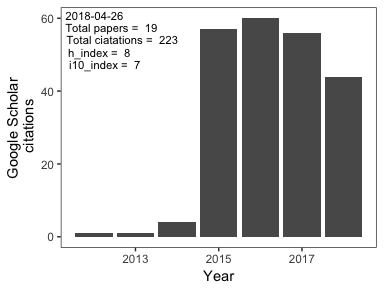
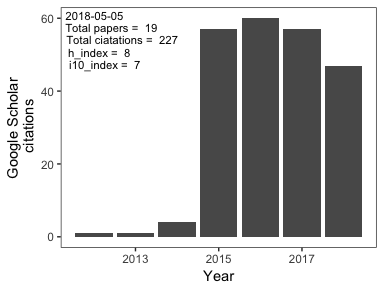
update cv

diff --git a/docs/README.md b/docs/README.md
@@ -14,7 +14,7 @@ Flexible and engaging ecologist within interests in studying how pathogen commun
 Transferable Skills
 -------------------
 
--   Strong communication skills: 19 publications in peer-reviewed journals; four presentations at international conferences
+-   Strong communication skills: 20 publications in peer-reviewed journals; four presentations at international conferences
 -   Broad field experience: supervised teams of field researchers in both terrestrial and marine habitats
 -   Extensive experience using script-based programming: proficient with frequentist and probabilistic statistical analyses; maintain two `R` packages for community ecology and landscape genetics research
 -   Aptitude for leadership: trained four postgraduate students in bioinformatics and statistical techniques
@@ -75,6 +75,8 @@ Full Publication List
 
 **2018**
 
+**Clark, NJ** and Soares Magalhães, RJ. Airborne geographical dispersal of Q Fever from livestock holdings to human communities: a systematic review and critical appraisal of evidence. *BMC Infectious Diseases* (accepted 05/05/18)
+
 **Clark, NJ**, Wells, K, and Lindberg, O. Unravelling changing interspecific interactions across environmental gradients using Markov random fields. *Ecology* (accepted 02/03/18)
 
 **Clark, NJ**. Phylogenetic uniqueness, not latitude, explains the diversity of avian blood parasite communities worldwide. *Global Ecology and Biogeography* DOI: doi: 10.1111/geb.12741. [PDF](http://nicholasjclark.weebly.com/uploads/4/4/9/4/44946407/clark_geb_2018.pdf)
@@ -126,8 +128,6 @@ Olsson-Pons, S, **Clark, NJ**, Ishtiaq, F and Clegg, SM. (2015) Differences in h
 Publications in Review
 ----------------------
 
-**Clark, NJ** and Soares Magalhães, RJ. Airborne geographical dispersal of Q Fever from livestock holdings to human communities: a systematic review and critical appraisal of evidence. *BMC Infectious Diseases* (1st submission 18/02/18)
-
 Wells, K, Gibson, D, and **Clark, NJ**. Global patterns in helminth host specificity: phylogenetic and functional diversity of regional host species pools matter. *Ecography* (1st submission 25/01/18)
 
 Lawrence, AL, Webb, CE, **Clark, NJ**, Halajian, A, Mihalca, A, Miret, J, D'Amico, G, Brown, G, Kumsa, B, Modry, D, and Šlapeta, J. Out-of-Africa origins and global climatic distribution of the common cat flea, Ctenocephalides felis: the hitchhiker’s guide to world domination. *Molecular Phylogenetics and Evolution* (1st submission 26/11/17)
@@ -157,6 +157,7 @@ Service and Discipline Involvement
 -   *Parasitology*
 -   *Malaria Journal*
 -   *Parasites & Vectors*
+-   *Evolutionary Applications*
 
 Funding Support
 ---------------
@@ -326,7 +327,7 @@ Relative to Opportunity
 
 I completed my undergraduate degree (Bachelor of Science; GPA 4.0) in 2009 and completed a Graduate Diploma by Research Methods in 2011 (High Distinction average). I began my PhD in February 2012 and finished in April 2016, delivering a thesis with six published chapters and two published appendices. My PhD work provided new insights into mechanisms driving the distributions of blood parasites in wild birds. I also gained a broad understanding of coexistence theory and its applications to community ecology, for instance by providing evidence that interspecific parasite interactions can influence infection rates.
 
-Following my PhD I have devoted much of my postdoctoral work to teaching and mentoring postgraduate research students. This has provided me with a set of leadership and organizational skills that I believe is unique among my peers. It also taught me to be proficient with the time that I do have available for research. Since winding down teaching in July last year, I have published seven papers and submitted another three, bringing my total to 19 publications. The quality and significance of this work is reflected by my exemplary publication record in some of the top journals in Ecology and Biogeography. My research has also garnered international recognition. I was invited to present work on new statistical tools for studying parasite niche differentiation at the Australian Society for Parasitology’s 2017 International Conference, where I was also invited to act as co-chair for a wildlife parasitology session. Recently, I have been invited to act as guest editor for a [*Tropical Medicine and Infectious Disease* Special Issue](http://www.mdpi.com/journal/tropicalmed/special_issues/Medical_Geography) on disease patterns in a changing environment.
+Following my PhD I have devoted much of my postdoctoral work to teaching and mentoring postgraduate research students. This has provided me with a set of leadership and organizational skills that I believe is unique among my peers. It also taught me to be proficient with the time that I do have available for research. Since winding down teaching in July last year, I have published eight papers and submitted another two, bringing my total to 20 publications. The quality and significance of this work is reflected by my exemplary publication record in some of the top journals in Ecology and Biogeography. My research has also garnered international recognition. I was invited to present work on new statistical tools for studying parasite niche differentiation at the Australian Society for Parasitology’s 2017 International Conference, where I was also invited to act as co-chair for a wildlife parasitology session. Recently, I have been invited to act as guest editor for a [*Tropical Medicine and Infectious Disease* Special Issue](http://www.mdpi.com/journal/tropicalmed/special_issues/Medical_Geography) on disease patterns in a changing environment.
 
 Referees
 --------
